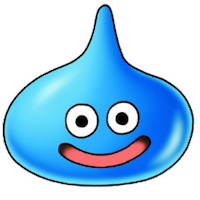
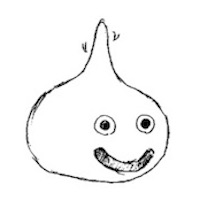
スライム画像差し替え＆追加。完成。

diff --git a/src/main/e165731/slime.java b/src/main/e165731/slime.java
@@ -15,7 +15,7 @@ class slime extends JPanel implements KeyListener {
     private static final int HEIGHT = 200;
 
     // スライムのイメージ
-    private Image slimeimage1, slimeimage2, slimeimage3, slimeimage4;
+    private Image slimeimage0,slimeimage1, slimeimage2, slimeimage3, slimeimage4, slimeimage5, slimeimage6, slimeimage7, slimeimage8, slimeimage9;
     int count = 0;
 
     public slime() {
@@ -23,7 +23,7 @@ class slime extends JPanel implements KeyListener {
         setFocusable(true);
         addKeyListener(this);
 
-        // パネルの推奨サイズを設定
+        // パネルのサイズを設定
         setPreferredSize(new Dimension(WIDTH, HEIGHT));
 
         // イメージをロード
@@ -36,16 +36,34 @@ class slime extends JPanel implements KeyListener {
         // カウントの値にそれぞれ設定したスライムのイメージを表示
         if(count == 0) {
             repaint();
-            g.drawImage(slimeimage1, 0, 0, this);
+            g.drawImage(slimeimage0, 0, 0, this);
         }else if(count == 1) {
             repaint();
-            g.drawImage(slimeimage2, 0, 0, this);
+            g.drawImage(slimeimage1, 0, 0, this);
         }else if(count == 2) {
             repaint();
-            g.drawImage(slimeimage3, 0, 0, this);
+            g.drawImage(slimeimage2, 0, 0, this);
         }else if(count == 3) {
             repaint();
+            g.drawImage(slimeimage3, 0, 0, this);
+        }else if(count == 4) {
+            repaint();
             g.drawImage(slimeimage4, 0, 0, this);
+        }else if(count == 5) {
+            repaint();
+            g.drawImage(slimeimage5, 0, 0, this);
+        }else if(count == 6) {
+            repaint();
+            g.drawImage(slimeimage6, 0, 0, this);
+        }else if(count == 7) {
+            repaint();
+            g.drawImage(slimeimage7, 0, 0, this);
+        }else if(count == 8) {
+            repaint();
+            g.drawImage(slimeimage8, 0, 0, this);
+        }else if(count == 9) {
+            repaint();
+            g.drawImage(slimeimage9, 0, 0, this);
         }
     }
 
@@ -56,7 +74,7 @@ class slime extends JPanel implements KeyListener {
         switch (keyCode) {
             case KeyEvent.VK_RIGHT:
                 // 右キーだったらカウント-1
-                if (count >= 3) {
+                if (count >= 9) {
                     count = 0;
                 }else {
                     count++;
@@ -66,7 +84,7 @@ class slime extends JPanel implements KeyListener {
             case KeyEvent.VK_LEFT:
                 // 左キーだったらカウント+1
                 if (count <= 0){
-                    count = 3;
+                    count = 9;
                 } else {
                     count--;
                 }
@@ -82,7 +100,9 @@ class slime extends JPanel implements KeyListener {
     }
 
     private void loadImage() {//ファイルのロード
-        ImageIcon icon = new ImageIcon(getClass().getResource("slime1.jpg"));
+        ImageIcon icon = new ImageIcon(getClass().getResource("slime0.jpg"));
+        slimeimage0 = icon.getImage();
+        icon = new ImageIcon(getClass().getResource("slime1.jpg"));
         slimeimage1 = icon.getImage();
         icon = new ImageIcon(getClass().getResource("slime2.jpg"));
         slimeimage2 = icon.getImage();
@@ -90,5 +110,15 @@ class slime extends JPanel implements KeyListener {
         slimeimage3 = icon.getImage();
         icon = new ImageIcon(getClass().getResource("slime4.jpg"));
         slimeimage4 = icon.getImage();
+        icon = new ImageIcon(getClass().getResource("slime5.jpg"));
+        slimeimage5 = icon.getImage();
+        icon = new ImageIcon(getClass().getResource("slime6.jpg"));
+        slimeimage6 = icon.getImage();
+        icon = new ImageIcon(getClass().getResource("slime7.jpg"));
+        slimeimage7 = icon.getImage();
+        icon = new ImageIcon(getClass().getResource("slime8.jpg"));
+        slimeimage8 = icon.getImage();
+        icon = new ImageIcon(getClass().getResource("slime9.jpg"));
+        slimeimage9 = icon.getImage();
     }
 }
